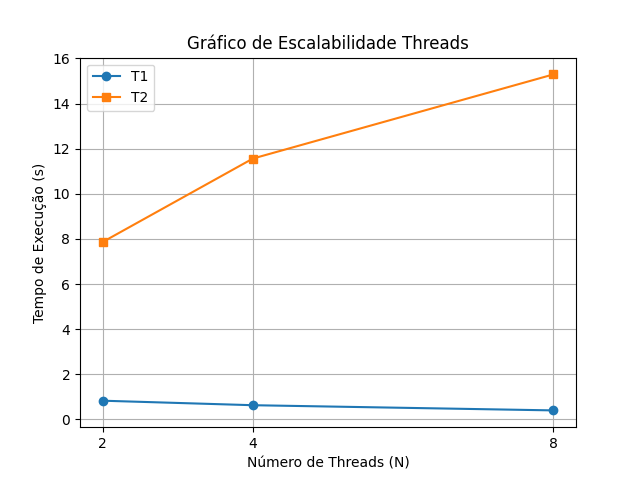
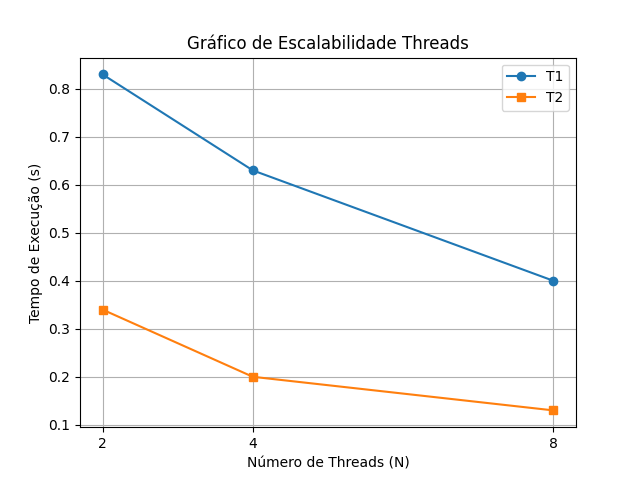
Update Readme

diff --git a/src/threads.c b/src/threads.c
@@ -1,6 +1,8 @@
 #include <stdio.h>
 #include <stdlib.h>
 #include <pthread.h>
+#include <time.h>
+#include <stdio.h>
 
 #define TOTAL 1000000000
 
@@ -37,23 +39,33 @@ void executar_threads_sem_sync(int n) {
 
 void *incrementar_com_mutex(void *arg) {
     int QuantIncre = *(int *)arg;
+    int local = 0;
 
+    // soma local (sem mutex)
     for (int i = 0; i < QuantIncre; i++) {
-        pthread_mutex_lock(&mutex);
-        contador++;
-        pthread_mutex_unlock(&mutex);
+        local++;
     }
+
+    // seção crítica pequena
+    pthread_mutex_lock(&mutex);
+    contador += local;
+    pthread_mutex_unlock(&mutex);
 
     return NULL;
 }
 
 void executar_threads_com_mutex(int n) {
     pthread_t threads[n];
-    contador = 0;                 
-    // cria o mutex
-    pthread_mutex_init(&mutex, NULL);   
+    contador = 0;
+
+    pthread_mutex_init(&mutex, NULL);
 
     int QuantIncre = TOTAL / n;
+
+    struct timespec inicio, fim;
+
+    // início
+    clock_gettime(CLOCK_MONOTONIC, &inicio);
 
     // cria as threads
     for (int i = 0; i < n; i++) {
@@ -65,8 +77,15 @@ void executar_threads_com_mutex(int n) {
         pthread_join(threads[i], NULL);
     }
 
-    printf("Threads com mutex (%d): %d\n", n, contador);
+    // fim
+    clock_gettime(CLOCK_MONOTONIC, &fim);
 
-    // destrói mutex
-    pthread_mutex_destroy(&mutex);   
+    // calcula tempo em segundos
+    double tempo = (fim.tv_sec - inicio.tv_sec) +
+                   (fim.tv_nsec - inicio.tv_nsec) / 1e9;
+
+    printf("Threads com mutex (%d): %d\n", n, contador);
+    printf("Tempo: %.6f segundos\n", tempo);
+
+    pthread_mutex_destroy(&mutex);
 }

diff --git a/src/main.c b/src/main.c
@@ -27,7 +27,7 @@ int main() {
 
     executar_threads_com_mutex(2);
     executar_threads_com_mutex(4);
-     executar_threads_com_mutex(8);
+    executar_threads_com_mutex(8);
    
     return 0;
 }

diff --git a/README.md b/README.md
@@ -93,11 +93,11 @@ Onde:
 - **T1**: execução sem sincronização.  
 - **T2**: execução com sincronização. 
 
-| N | T1 (s)| T2 (s) | 
-| - | ------ | ------|
-| 2 | 0,83   | 7,86  | 
-| 4 | 0,63   | 11,56 | 
-| 8 | 0,40   | 15,29 | 
+| N | T1 (s)|T2 (s)| 
+| - | ------| -----|
+| 2 | 0,83  | 0,34 | 
+| 4 | 0,63  | 0,20 | 
+| 8 | 0,40  | 0,13 | 
 
 Observações: O código foi executado **três vezes para cada valor de N**, os valores apresentados na tabela correspondem à **média dos tempos obtidos**.
 
@@ -112,11 +112,11 @@ Observações: O código foi executado **três vezes para cada valor de N**, os 
 
 ## Tabela de Tempo de Execução
 
-| N | P1 (s)| P2 (s)| T1 (s)| T2 (s) |
-| - | ------| ----- |-------|--------|
-| 2 | 0,95  | 0,44  | 0,83  | 7,86   |
-| 4 | 0.61  | 0,34  | 0,63  | 11,56  |
-| 8 | 0.46  | 0,26  | 0,40  | 15,29  |
+| N | P1 (s)| P2 (s)| T1 (s)| T2 (s)|
+| - | ------| ----- |-------|-------|
+| 2 | 0,95  | 0,44  | 0,83  | 0,34  |
+| 4 | 0.61  | 0,34  | 0,63  | 0,20  |
+| 8 | 0.46  | 0,26  | 0,40  | 0,13  |
 
 
 ## Análise de Corrupção
@@ -148,7 +148,7 @@ Os valores finais do contador ficaram abaixo de 1 bilhão devido a race conditio
 
 ## Grafico de Escalabilidade
 
-![alt text](img/grafico_processo_threads.png)
+![alt text](img/Grafico_threads_processos.png)
 
 ## Conclusão Final
 
